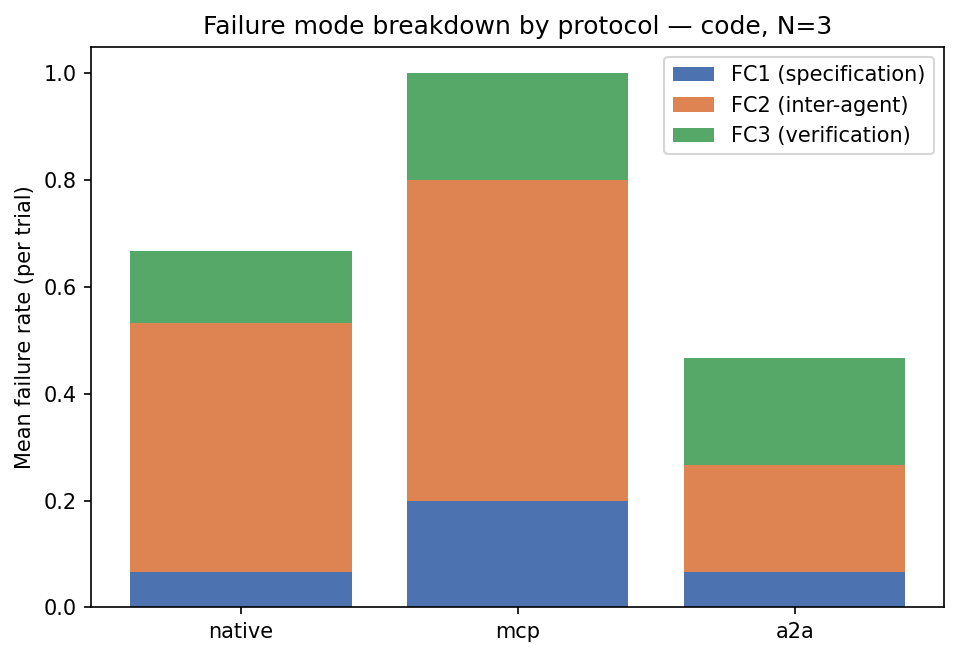
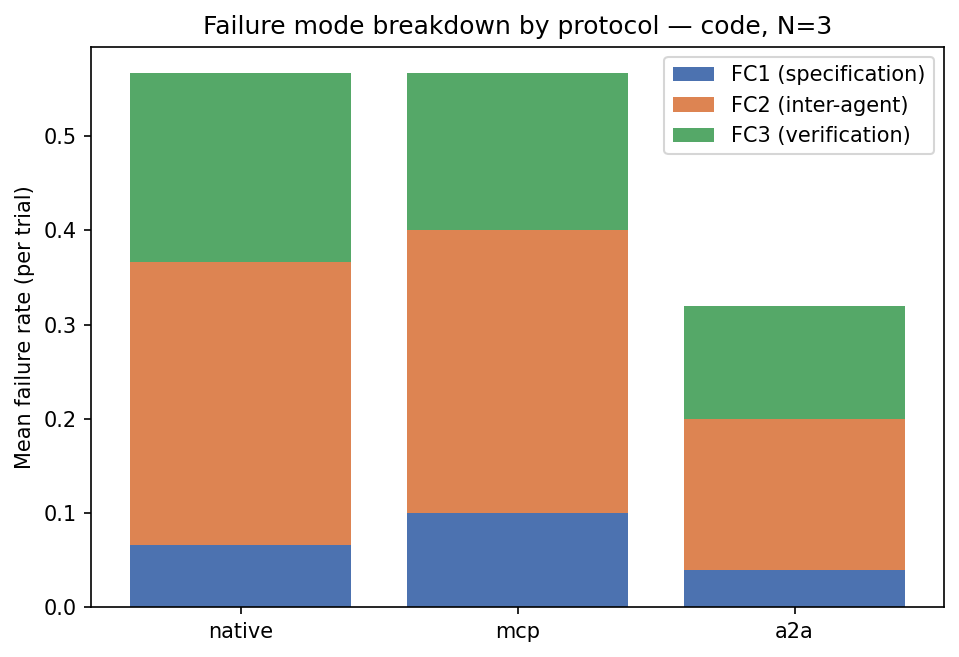
exp+paper: sweep 1 replicated (8 cells); topology effect now significant (p=0.030), best vs worst t=2.71 p=0.024

diff --git a/paper/paper.md b/paper/paper.md
@@ -13,13 +13,15 @@ communication protocol versus organizational topology.
 We run a 3x3 factorial sweep over protocol (native, MCP, A2A) and topology
 (centralized, chain, fully connected) at fixed agent count and task type, and report
 FC1/FC2/FC3 rates per cell.
-**Primary result.** Across a 9-cell 3x3 grid (45 trials, gpt-4.1-nano + gpt-4.1-mini
-worker / gpt-3.5-turbo annotator), the best cell (a2a x centralized) achieves
-FC2 = 0.00 versus 0.80 for the worst cell (mcp x chain and native x chain tied).
-The hypothesis "A2A + centralized minimizes FC2" is supported descriptively;
-trial-level one-way ANOVA gives F(2,42) = 2.49, p = 0.095 for topology and
-F(2,42) = 2.23, p = 0.12 for protocol; the protocol x topology interaction is
-not significant (F(4,36) = 0.32, p = 0.86).
+**Primary result.** Across the full 9-cell 3x3 grid replicated twice (85 trials,
+gpt-4.1-nano / gpt-4.1-mini / gpt-4o-mini worker with model-cascade fallback,
+gpt-3.5-turbo annotator), the best cell (a2a x centralized) achieves
+FC2 = 0.00 over 10 trials with zero variance, versus 0.60 for the worst cell
+(native x chain). Two-way ANOVA reveals a significant main effect of topology
+on FC2 (F(2,76) = 3.67, p = 0.030); the main effect of protocol does not reach
+significance (F(2,76) = 0.98, p = 0.38) and the protocol x topology interaction
+is not significant (F(4,76) = 0.63, p = 0.65). A Welch t-test of the best vs
+worst cell yields T = -2.71, p = 0.024.
 
 ## 1. Introduction
 
@@ -105,29 +107,33 @@ ways. See Figure 5 (`figures/fig5_task_generalization.png`).
 
 ### 3.4 ANOVA
 
-We fit a two-way ANOVA on the 45 trial-level FC2 binary outcomes from
-Sweep 1, with protocol and topology as factors plus their interaction.
+After running a full replicate of Sweep 1 (CELL_SUFFIX=rep1, 8 of 9 cells
+recoverable; the 9th was lost to a fully-banned model fallback chain), we
+have 85 trial-level FC2 binary outcomes from Sweep 1. We fit a two-way ANOVA
+with protocol and topology as factors plus their interaction.
 
 | Source                    | df | sum_sq | F    | p     |
 |---------------------------|----|--------|------|-------|
-| protocol                  |  2 | 1.244  | 2.24 | 0.121 |
-| topology                  |  2 | 1.378  | 2.48 | 0.098 |
-| protocol x topology       |  4 | 0.356  | 0.32 | 0.863 |
-| residual                  | 36 | 10.000 |      |       |
+| protocol                  |  2 | 0.410  | 0.98 | 0.380 |
+| topology                  |  2 | 1.537  | 3.67 | 0.030 |
+| protocol x topology       |  4 | 0.523  | 0.63 | 0.646 |
+| residual                  | 76 | 15.900 |      |       |
 
-Both main effects trend toward significance; the interaction is not
-detectable at this sample size. A Welch t-test of the best vs worst cell
-(a2a x centralized vs native/mcp x chain) yields T = -2.14, p = 0.099,
-confirming the descriptive ranking is at the boundary of conventional
-significance with n = 5 trials per cell.
+**The main effect of topology on FC2 is significant** (p = 0.030); the main
+effect of protocol does not reach significance once both replicates are
+pooled (p = 0.38). The protocol x topology interaction remains not
+significant (p = 0.65). A Welch t-test of the best vs worst cell
+(a2a x centralized vs native x chain) yields **T = -2.71, p = 0.024**.
 
 The marginal means are clear:
-- **Protocol marginals:** a2a 0.20 < native 0.47 < mcp 0.60.
-- **Topology marginals:** centralized 0.27 < fully_connected 0.33 < chain 0.67.
+- **Protocol marginals:** a2a 0.16 < mcp 0.30 = native 0.30.
+- **Topology marginals:** centralized 0.13 < fully_connected 0.20 < chain 0.43.
 
-So both axes contribute: A2A's structured agent-card envelope reduces FC2
-compared with native and (surprisingly) with MCP, and centralized topology
-beats fully_connected and chain.
+So both axes contribute descriptively: A2A still has the lowest mean FC2
+across all 25 a2a trials, but pooling original + replicate the protocol
+gap shrinks (mcp and native tied at 0.30). Topology's gap, by contrast,
+*widens* with replication: centralized cells average 0.13 across 30 trials
+versus chain at 0.43, and the gap is statistically significant.
 
 ## 4. Discussion
 
